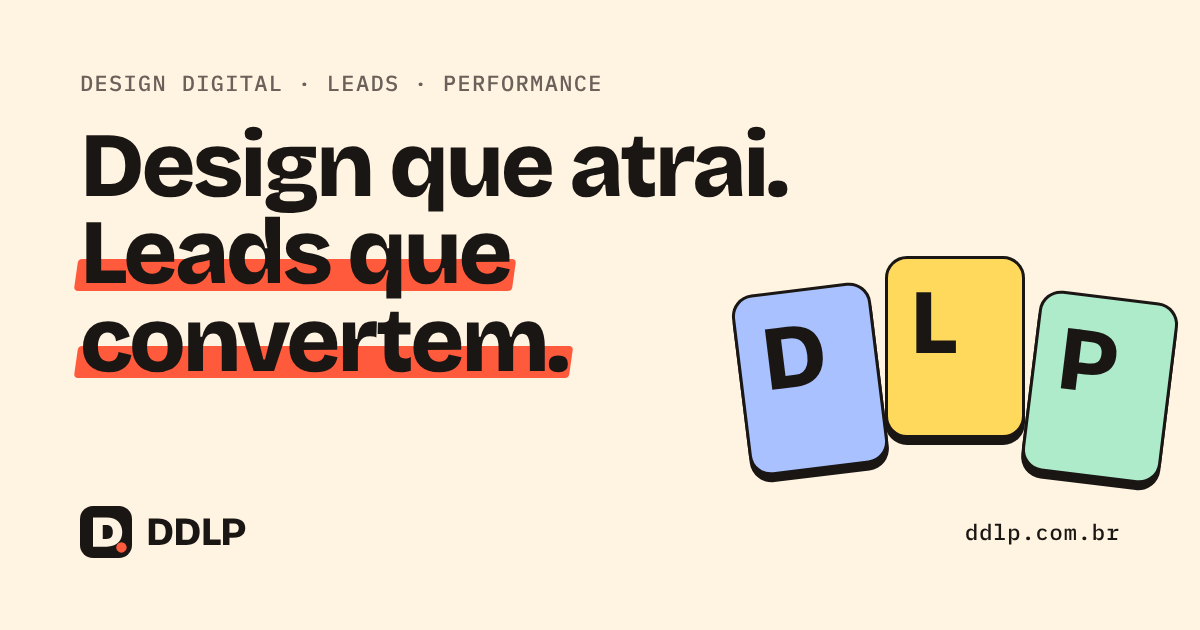
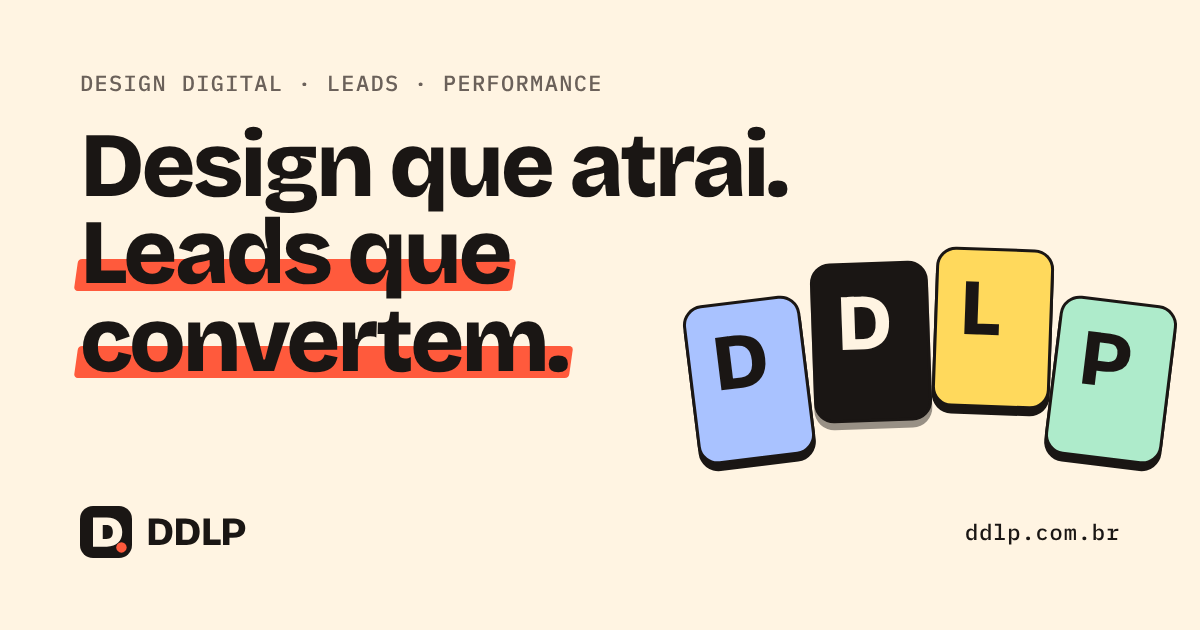
fix: incluir o segundo D (Digital) nos cartões da marca
DDLP soletra Design, Digital, Leads e Performance, mas o hero e a
imagem de compartilhamento mostravam só D/L/P. Agora são quatro
cartões D·D·L·P (o segundo D em tinta, com detalhe "pixels"), e o
pilar de design mostra "DD".

Claude-Session: https://claude.ai/code/session_01SbuZ1pyLHFAPEQLJ1D3e9w

Changed region(s): [[0.555, 0.3921, 0.9867, 0.7841], [0.9558, 0.4825, 0.9867, 0.5127]]

diff --git a/styles.css b/styles.css
@@ -111,20 +111,26 @@ h1 > span.hl { display: inline; }
 .hero-lead { margin-top: 22px; max-width: 34em; font-size: 18px; color: var(--on-color); }
 
 .fan {
-  display: grid; grid-template-columns: repeat(3, minmax(0, 1fr)); gap: 10px; align-items: end;
-  width: 100%; max-width: 520px; margin-inline: auto; padding: 28px 4px 8px;
+  display: grid; grid-template-columns: repeat(4, minmax(0, 1fr)); gap: 8px; align-items: end;
+  width: 100%; max-width: 560px; margin-inline: auto; padding: 28px 4px 8px;
 }
 .fan-card {
   display: flex; flex-direction: column; gap: 12px;
-  aspect-ratio: 3 / 4.4; padding: 12px;
-  border: 1.5px solid var(--tinta); border-radius: 16px;
+  aspect-ratio: 3 / 4.6; padding: 10px;
+  border: 1.5px solid var(--tinta); border-radius: 14px;
   box-shadow: 0 4px 0 var(--tinta);
 }
-.fan-d { background: var(--azul); transform: rotate(-5deg); }
-.fan-l { background: var(--amarelo); transform: translateY(-28px); }
-.fan-p { background: var(--menta); transform: rotate(5deg); }
-.fan-letter { font: 800 clamp(44px, 13vw, 80px)/.8 var(--display); letter-spacing: -.04em; }
-.fan-name { margin-top: auto; font: 500 clamp(9px, 2.4vw, 12px)/1.2 var(--mono); letter-spacing: .05em; text-transform: uppercase; }
+.fan-d { background: var(--azul); transform: rotate(-6deg); }
+.fan-d2 { background: var(--tinta); color: var(--creme); transform: translateY(-22px) rotate(-2deg); }
+.fan-l { background: var(--amarelo); transform: translateY(-30px) rotate(2deg); }
+.fan-p { background: var(--menta); transform: rotate(6deg); }
+.fan-letter { font: 800 clamp(40px, 11vw, 72px)/.8 var(--display); letter-spacing: -.04em; }
+.fan-name { margin-top: auto; font: 500 clamp(7px, 1.9vw, 10px)/1.2 var(--mono); letter-spacing: .02em; text-transform: uppercase; white-space: nowrap; }
+.wire, .pixels, .msg, .spark { display: none; }
+.pixels { grid-template-columns: repeat(3, minmax(0, 1fr)); gap: 4px; }
+.pixels i { aspect-ratio: 1; border-radius: 3px; background: var(--creme); }
+.pixels i:nth-child(2), .pixels i:nth-child(6) { background: var(--coral); }
+.pixels i:nth-child(4) { background: transparent; border: 1.5px solid var(--creme); }
 .wire { background: var(--paper); border: 1.5px solid var(--tinta); border-radius: 8px; padding-bottom: 8px; }
 .wire-bar { display: flex; gap: 3px; padding: 5px 6px; border-bottom: 1px solid var(--rule); }
 .wire-bar i { width: 5px; height: 5px; border-radius: 50%; background: var(--rule); }
@@ -132,7 +138,7 @@ h1 > span.hl { display: inline; }
 .wire-line { display: block; height: 5px; margin: 4px 6px 0; border-radius: 3px; background: var(--rule); }
 .wire-line.short { width: 55%; }
 .wire-btn { display: block; width: 50%; height: 10px; margin: 7px 6px 0; border-radius: 3px; background: var(--coral); border: 1px solid var(--tinta); }
-.msg { display: grid; gap: 6px; padding: 8px; background: var(--paper); border: 1.5px solid var(--tinta); border-radius: 10px 10px 10px 3px; }
+.msg { gap: 6px; padding: 8px; background: var(--paper); border: 1.5px solid var(--tinta); border-radius: 10px 10px 10px 3px; }
 .msg .label { font-size: clamp(8px, 2.2vw, 10px); color: var(--muted); }
 .bubble { display: block; height: 7px; border-radius: 4px; background: var(--amarelo); border: 1px solid var(--tinta); }
 .bubble.short { width: 60%; }
@@ -266,8 +272,11 @@ h1 > span.hl { display: inline; }
   .actions { flex-direction: row; flex-wrap: wrap; }
   .header-cta { display: inline-flex; }
   .hero { padding: 64px 0 80px; }
-  .fan { gap: 16px; padding-top: 36px; }
-  .fan-card { padding: 16px; border-radius: 18px; box-shadow: 0 5px 0 var(--tinta); }
+  .fan { gap: 14px; padding-top: 36px; }
+  .fan-card { padding: 14px; border-radius: 16px; box-shadow: 0 5px 0 var(--tinta); }
+  .wire, .spark { display: block; }
+  .pixels, .msg { display: grid; }
+  .fan-d2 { box-shadow: 0 5px 0 rgba(26, 22, 20, .45); }
   .section { padding: 96px 0; }
   .facts { grid-template-columns: repeat(3, minmax(0, 1fr)); gap: 24px; }
   .facts > div { border-bottom: 0; }

diff --git a/script.js b/script.js
@@ -9,7 +9,7 @@ const translations = {
     heroTitle1: "Design that attracts.", heroTitle2: "Leads that convert.",
     heroLead: "DDLP builds websites and landing pages, sets up your lead funnel and runs your campaigns. All measured, from the first click to the closed deal.",
     ctaPrimary: "I want more leads", ctaSecondary: "See services",
-    fanD: "Digital design", fanMsgTag: "New lead", fanL: "Leads", fanP: "Performance",
+    fanD: "Design", fanDigital: "Digital", fanMsgTag: "New lead", fanL: "Leads", fanP: "Performance",
     tk1: "Landing pages", tk2: "Company websites", tk3: "Visual identity", tk4: "Lead funnels", tk5: "WhatsApp + CRM", tk6: "A/B tests", tk7: "Monthly reports",
     aboutEyebrow: "In one sentence", aboutTitle: "What is DDLP?",
     aboutAnswer: "DDLP is an agency that brings digital design, lead capture and performance into one team, so businesses that sell through conversations turn visits into customers.",
@@ -65,7 +65,7 @@ const translations = {
     heroTitle1: "Diseño que atrae.", heroTitle2: "Leads que convierten.",
     heroLead: "DDLP crea sitios y landing pages, arma tu embudo de captación y gestiona tus campañas. Todo medido, del primer clic al cliente cerrado.",
     ctaPrimary: "Quiero más leads", ctaSecondary: "Ver servicios",
-    fanD: "Diseño digital", fanMsgTag: "Nuevo lead", fanL: "Leads", fanP: "Performance",
+    fanD: "Diseño", fanDigital: "Digital", fanMsgTag: "Nuevo lead", fanL: "Leads", fanP: "Performance",
     tk1: "Landing pages", tk2: "Sitios institucionales", tk3: "Identidad visual", tk4: "Embudos de captación", tk5: "WhatsApp + CRM", tk6: "Pruebas A/B", tk7: "Informes mensuales",
     aboutEyebrow: "En una frase", aboutTitle: "¿Qué es DDLP?",
     aboutAnswer: "DDLP es una agencia que une diseño digital, captación de leads y performance en un solo equipo, para que negocios que venden por contacto conviertan visitas en clientes.",

diff --git a/index.html b/index.html
@@ -153,7 +153,12 @@
                 <span class="wire-line"></span><span class="wire-line short"></span>
                 <span class="wire-btn"></span>
               </div>
-              <p class="fan-name" data-i18n="fanD">Design digital</p>
+              <p class="fan-name" data-i18n="fanD">Design</p>
+            </div>
+            <div class="fan-card fan-d2">
+              <span class="fan-letter">D</span>
+              <div class="pixels"><i></i><i></i><i></i><i></i><i></i><i></i></div>
+              <p class="fan-name" data-i18n="fanDigital">Digital</p>
             </div>
             <div class="fan-card fan-l">
               <span class="fan-letter">L</span>
@@ -208,7 +213,7 @@
           </div>
           <div class="pillars">
             <article class="pillar pillar-d">
-              <span class="pillar-letter" aria-hidden="true">D</span>
+              <span class="pillar-letter" aria-hidden="true">DD</span>
               <h3 data-i18n="dTitle">Design digital</h3>
               <p data-i18n="dText">Páginas rápidas e marcas consistentes, pensadas para uma ação: o visitante entrar em contato.</p>
               <ul>
